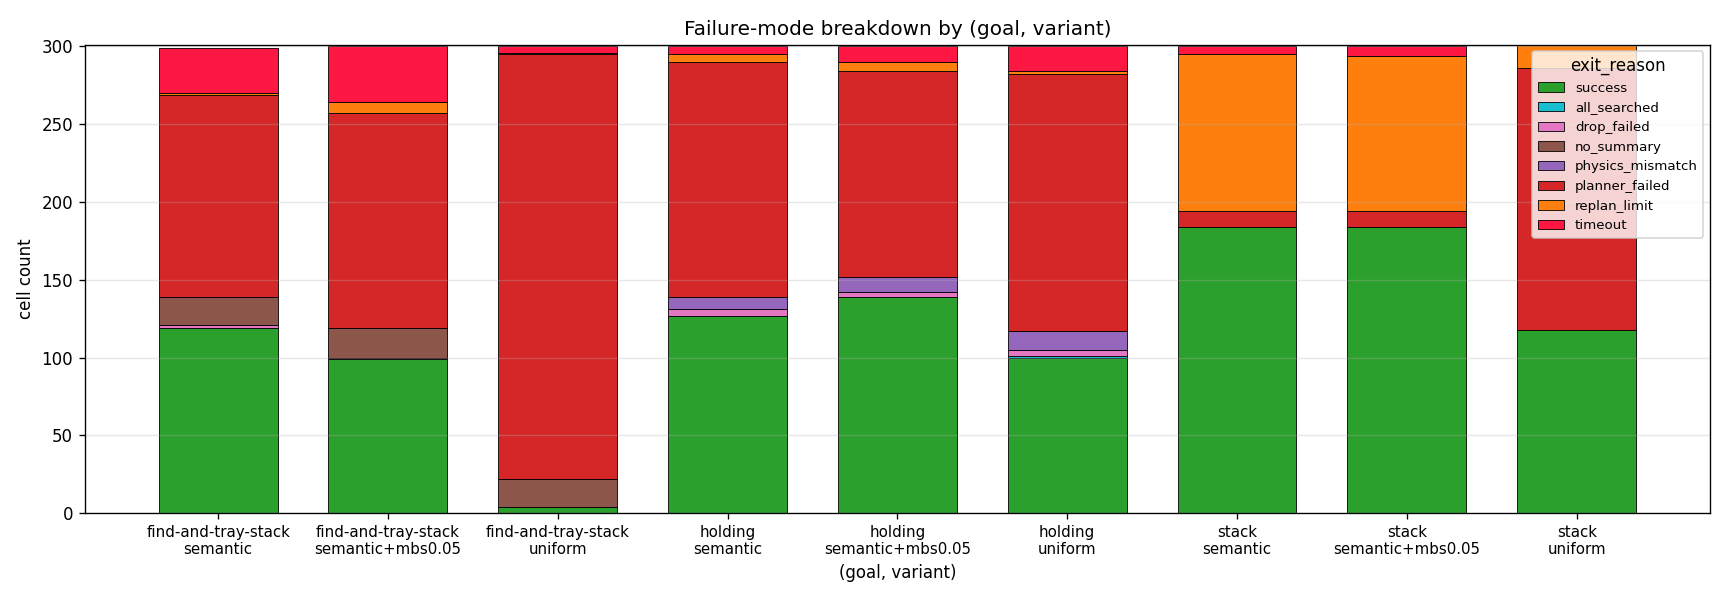
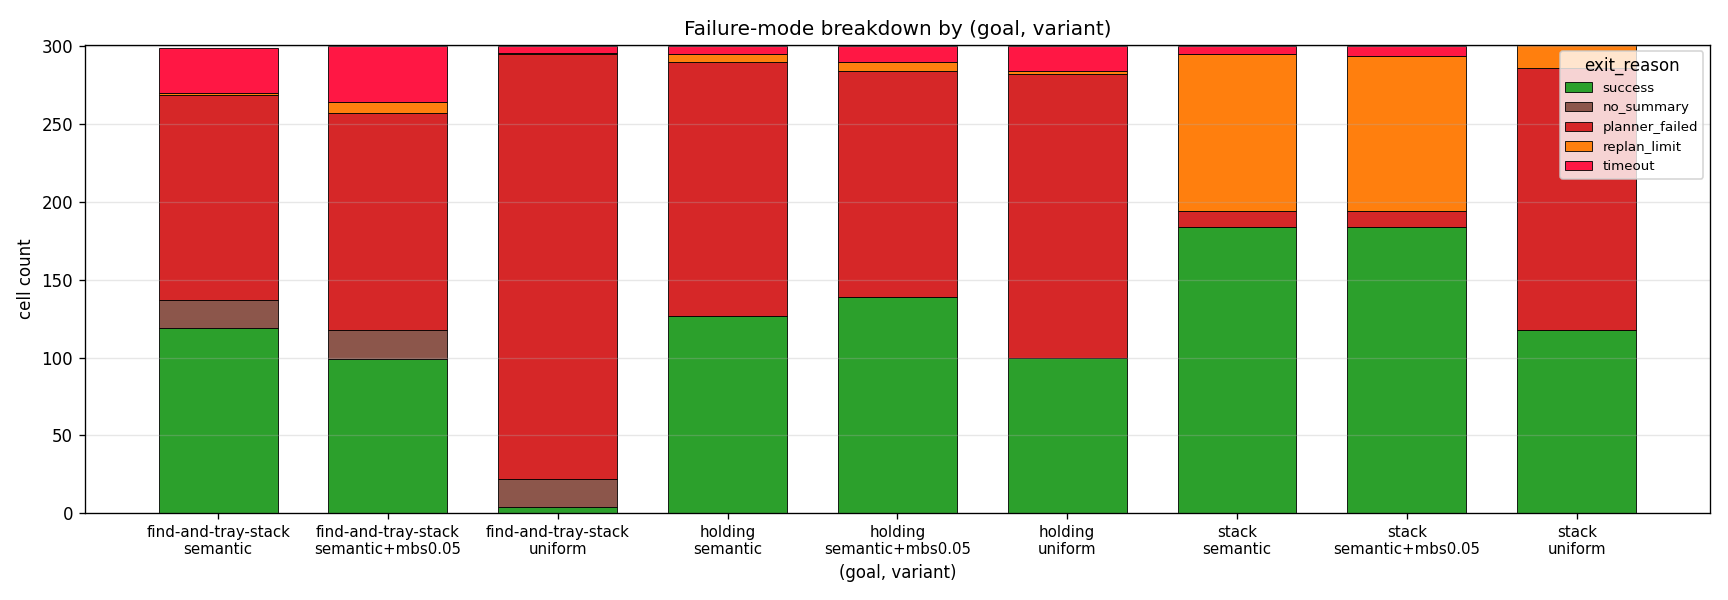
Fix #106(1): fold all_searched + physics_mismatch + drop_failed into planner_failed in the failure-mode breakdown (eval_plotter.group_failure_modes); regenerate failure_modes.png + note the grouping in the fig:failure-modes caption

diff --git a/eval_plotter.py b/eval_plotter.py
@@ -1192,13 +1192,21 @@ def plot_tampura_wallclock_comparison(
     return out_path
 
 
+# Author-directed grouping for the failure-mode breakdown: physics_mismatch,
+# drop_failed and all_searched are all "the planner's plan ultimately did not
+# pan out" outcomes, so they are folded into planner_failed (one failure bucket)
+# rather than shown as separate slices.
+_PLANNER_FAILED_ALIASES = {"physics_mismatch", "drop_failed", "all_searched"}
+
+
 def group_failure_modes(rows: List[dict]
                         ) -> Dict[tuple, Dict[str, int]]:
     """``{(goal, variant): {exit_reason: count}}``.
 
     Audit #73 TIER B plot 6 data prep; audit #99 — sub-key is variant
     not baseline so the (find-and-tray-stack, semantic) bar height no
-    longer doubles up the mbs=None + mbs=0.05 cells.
+    longer doubles up the mbs=None + mbs=0.05 cells.  The execution/search
+    exit reasons in ``_PLANNER_FAILED_ALIASES`` are counted as planner_failed.
     """
     out: Dict = defaultdict(lambda: defaultdict(int))
     for r in rows:
@@ -1208,6 +1216,8 @@ def group_failure_modes(rows: List[dict]
             key = "success"
         else:
             key = r.get("exit_reason") or "unknown"
+            if key in _PLANNER_FAILED_ALIASES:
+                key = "planner_failed"
         out[(goal, variant)][key] += 1
     return out
 

diff --git a/thesis/chapters/results.tex b/thesis/chapters/results.tex
@@ -237,7 +237,7 @@ The partition shrinks as the leaf is coarsened above auto --- the free-space Box
 \begin{figure}[H]
     \centering
     \includegraphics[width=\textwidth]{failure_modes.png}
-    \caption{Stacked exit-reason breakdown per $(\text{goal}, \text{variant})$. \texttt{planner\_failed} is the dominant failure mode on holding and find-and-tray-stack; on stack the adaptive variants instead fail mainly via \texttt{replan\_limit} (the second-largest slice after success).}
+    \caption{Stacked exit-reason breakdown per $(\text{goal}, \text{variant})$. \texttt{planner\_failed} here also absorbs the \texttt{physics\_mismatch}, \texttt{drop\_failed} and \texttt{all\_searched} exits (all cases where the planned solution ultimately failed); it is the dominant failure mode on holding and find-and-tray-stack, while on stack the adaptive variants instead fail mainly via \texttt{replan\_limit} (the second-largest slice after success).}
     \label{fig:failure-modes}
 \end{figure}
 
